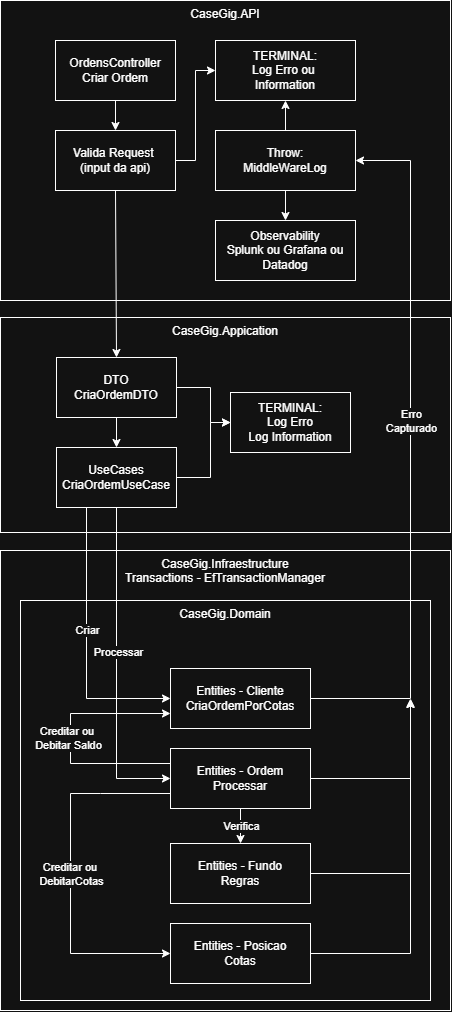
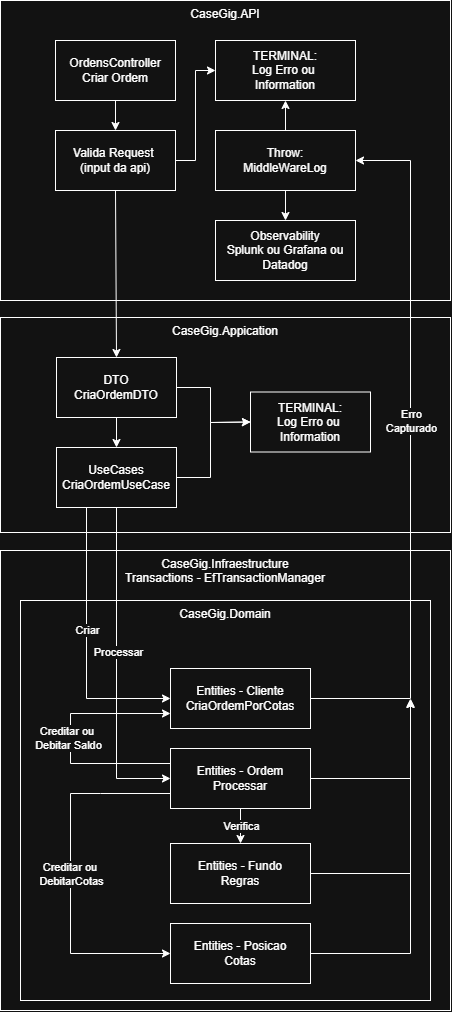
feat(observability): exportar logs no worker e centralizar exporter

Changed region(s): [[0.5575, 0.3982, 0.8053, 0.4595], [0.4956, 0.3982, 0.5575, 0.4289]]

diff --git a/src/Infrastructure/DependencyInjection.cs b/src/Infrastructure/DependencyInjection.cs
@@ -2,10 +2,17 @@ using CaseGig.Application.Abstractions;
 using CaseGig.Infrastructure.Persistence;
 using CaseGig.Infrastructure.Repositories;
 using CaseGig.Infrastructure.Transactions;
+using CaseGig.Infrastructure.Observability;
 using Microsoft.EntityFrameworkCore;
 using Microsoft.Extensions.Configuration;
 using Microsoft.Extensions.DependencyInjection;
+using Microsoft.Extensions.Logging;
+using Microsoft.Extensions.Options;
+using Polly;
+using Polly.Extensions.Http;
 using Pomelo.EntityFrameworkCore.MySql.Infrastructure;
+using System.Net;
+using System.Net.Http.Headers;
 
 namespace CaseGig.Infrastructure;
 
@@ -37,5 +44,102 @@ public static class DependencyInjection
         services.AddScoped<IOrdemRepository, OrdemRepository>();
 
         return services;
+    }
+
+    public static IServiceCollection AddObservabilityExporting(this IServiceCollection services, IConfiguration configuration, ILoggingBuilder logging)
+    {
+        services.Configure<ObservabilityLoggingOptions>(configuration.GetSection("Observability:Logging"));
+        services.AddSingleton<ObservabilityExportQueue>();
+        logging.Services.AddSingleton<ILoggerProvider, ObservabilityExportLoggerProvider>();
+        services.AddHostedService<ObservabilityExportWorker>();
+
+        services.AddHttpClient(ExportClients.Splunk, (sp, client) =>
+        {
+            var opt = sp.GetRequiredService<IOptionsMonitor<ObservabilityLoggingOptions>>().CurrentValue;
+            client.Timeout = Timeout.InfiniteTimeSpan;
+            if (!string.IsNullOrWhiteSpace(opt.Export.Splunk.HecEndpoint))
+            {
+                client.BaseAddress = new Uri(opt.Export.Splunk.HecEndpoint, UriKind.Absolute);
+            }
+            client.DefaultRequestHeaders.Accept.Clear();
+            client.DefaultRequestHeaders.Accept.Add(new MediaTypeWithQualityHeaderValue("application/json"));
+            if (!string.IsNullOrWhiteSpace(opt.Export.Splunk.Token) && !opt.Export.Splunk.Token.Contains("CHANGE_ME", StringComparison.OrdinalIgnoreCase))
+            {
+                client.DefaultRequestHeaders.Authorization = new AuthenticationHeaderValue("Splunk", opt.Export.Splunk.Token);
+            }
+        })
+        .AddPolicyHandler(CreateTimeoutPolicy(TimeSpan.FromSeconds(5)))
+        .AddPolicyHandler(CreateRetryPolicy())
+        .AddPolicyHandler(CreateCircuitBreakerPolicy());
+
+        services.AddHttpClient(ExportClients.Loki, (sp, client) =>
+        {
+            var opt = sp.GetRequiredService<IOptionsMonitor<ObservabilityLoggingOptions>>().CurrentValue;
+            client.Timeout = Timeout.InfiniteTimeSpan;
+            if (!string.IsNullOrWhiteSpace(opt.Export.Grafana.LokiEndpoint))
+            {
+                client.BaseAddress = new Uri(opt.Export.Grafana.LokiEndpoint, UriKind.Absolute);
+            }
+            client.DefaultRequestHeaders.Accept.Clear();
+            client.DefaultRequestHeaders.Accept.Add(new MediaTypeWithQualityHeaderValue("application/json"));
+            if (!string.IsNullOrWhiteSpace(opt.Export.Grafana.Token) && !opt.Export.Grafana.Token.Contains("CHANGE_ME", StringComparison.OrdinalIgnoreCase))
+            {
+                client.DefaultRequestHeaders.Authorization = new AuthenticationHeaderValue("Bearer", opt.Export.Grafana.Token);
+            }
+        })
+        .AddPolicyHandler(CreateTimeoutPolicy(TimeSpan.FromSeconds(5)))
+        .AddPolicyHandler(CreateRetryPolicy())
+        .AddPolicyHandler(CreateCircuitBreakerPolicy());
+
+        services.AddHttpClient(ExportClients.Datadog, (sp, client) =>
+        {
+            var opt = sp.GetRequiredService<IOptionsMonitor<ObservabilityLoggingOptions>>().CurrentValue;
+            var dd = opt.Export.Datadog;
+            client.Timeout = Timeout.InfiniteTimeSpan;
+            var site = string.IsNullOrWhiteSpace(dd.Site) ? "datadoghq.com" : dd.Site;
+            client.BaseAddress = new Uri($"https://http-intake.logs.{site}/api/v2/logs", UriKind.Absolute);
+            client.DefaultRequestHeaders.Accept.Clear();
+            client.DefaultRequestHeaders.Accept.Add(new MediaTypeWithQualityHeaderValue("application/json"));
+            client.DefaultRequestHeaders.Remove("DD-API-KEY");
+            if (!string.IsNullOrWhiteSpace(dd.ApiKey) && !dd.ApiKey.Contains("CHANGE_ME", StringComparison.OrdinalIgnoreCase))
+            {
+                client.DefaultRequestHeaders.Add("DD-API-KEY", dd.ApiKey);
+            }
+        })
+        .AddPolicyHandler(CreateTimeoutPolicy(TimeSpan.FromSeconds(5)))
+        .AddPolicyHandler(CreateRetryPolicy())
+        .AddPolicyHandler(CreateCircuitBreakerPolicy());
+
+        return services;
+    }
+
+    private static IAsyncPolicy<HttpResponseMessage> CreateRetryPolicy()
+    {
+        return HttpPolicyExtensions
+            .HandleTransientHttpError()
+            .OrResult(r => r.StatusCode == (HttpStatusCode)429)
+            .WaitAndRetryAsync(
+                retryCount: 3,
+                sleepDurationProvider: retryAttempt =>
+                {
+                    var baseDelayMs = 200 * Math.Pow(2, retryAttempt - 1);
+                    var jitterMs = Random.Shared.Next(0, 200);
+                    return TimeSpan.FromMilliseconds(baseDelayMs + jitterMs);
+                });
+    }
+
+    private static IAsyncPolicy<HttpResponseMessage> CreateCircuitBreakerPolicy()
+    {
+        return HttpPolicyExtensions
+            .HandleTransientHttpError()
+            .OrResult(r => r.StatusCode == (HttpStatusCode)429)
+            .CircuitBreakerAsync(
+                handledEventsAllowedBeforeBreaking: 5,
+                durationOfBreak: TimeSpan.FromSeconds(30));
+    }
+
+    private static IAsyncPolicy<HttpResponseMessage> CreateTimeoutPolicy(TimeSpan timeout)
+    {
+        return Policy.TimeoutAsync<HttpResponseMessage>(timeout);
     }
 }

diff --git a/src/Api/Configuration/ObservabilityConfiguration.cs b/src/Api/Configuration/ObservabilityConfiguration.cs
@@ -1,5 +1,4 @@
-using CaseGig.Api.BackgroundJobs;
-using Microsoft.Extensions.Logging;
+using CaseGig.Infrastructure;
 
 namespace CaseGig.Api.Configuration;
 
@@ -7,11 +6,7 @@ internal static class ObservabilityConfiguration
 {
     public static WebApplicationBuilder AddObservabilityConfiguration(this WebApplicationBuilder builder)
     {
-        builder.Services.Configure<ObservabilityLoggingOptions>(builder.Configuration.GetSection("Observability:Logging"));
-
-        builder.Services.AddSingleton<ObservabilityExportQueue>();
-        builder.Logging.Services.AddSingleton<ILoggerProvider, ObservabilityExportLoggerProvider>();
-        builder.Services.AddHostedService<ObservabilityExportWorker>();
+        builder.Services.AddObservabilityExporting(builder.Configuration, builder.Logging);
 
         return builder;
     }

diff --git a/src/Api/Middlewares/RequestLoggingMiddleware.cs b/src/Api/Middlewares/RequestLoggingMiddleware.cs
@@ -1,5 +1,5 @@
 using Microsoft.Extensions.Options;
-using CaseGig.Api.Configuration;
+using CaseGig.Infrastructure.Observability;
 
 namespace CaseGig.Api.Middlewares;
 

diff --git a/src/Worker/Program.cs b/src/Worker/Program.cs
@@ -36,6 +36,8 @@ builder.Logging.AddConsoleFormatter<PrettyConsoleFormatter, PrettyConsoleFormatt
     options.ColorMode = colorMode;
 });
 
+builder.Services.AddObservabilityExporting(builder.Configuration, builder.Logging);
+
 builder.Services.AddApplication();
 builder.Services.AddInfrastructure(builder.Configuration);
 

diff --git a/src/Api/Program.cs b/src/Api/Program.cs
@@ -14,7 +14,6 @@ var builder = WebApplication.CreateBuilder(args);
 var recreateDb = args.Any(x => string.Equals(x, "--recreate-db", StringComparison.OrdinalIgnoreCase));
 builder.AddLoggingConfiguration();
 builder.AddObservabilityConfiguration();
-builder.AddResilienceConfiguration();
 builder.AddApiConfiguration();
 builder.AddSwaggerConfiguration();
 

diff --git a/README.md b/README.md
@@ -255,6 +255,7 @@ Existe estrutura de configuração para exportação (quando habilitado) para:
 - Datadog (Site/ApiKey)
 
 Além da saída no console/terminal, a API pode enviar logs estruturados via HTTP para as integrações configuradas.
+O Worker também pode enviar logs para os mesmos destinos usando a mesma seção de configuração.
 
 #### Export de logs (HTTP) + Polly
 